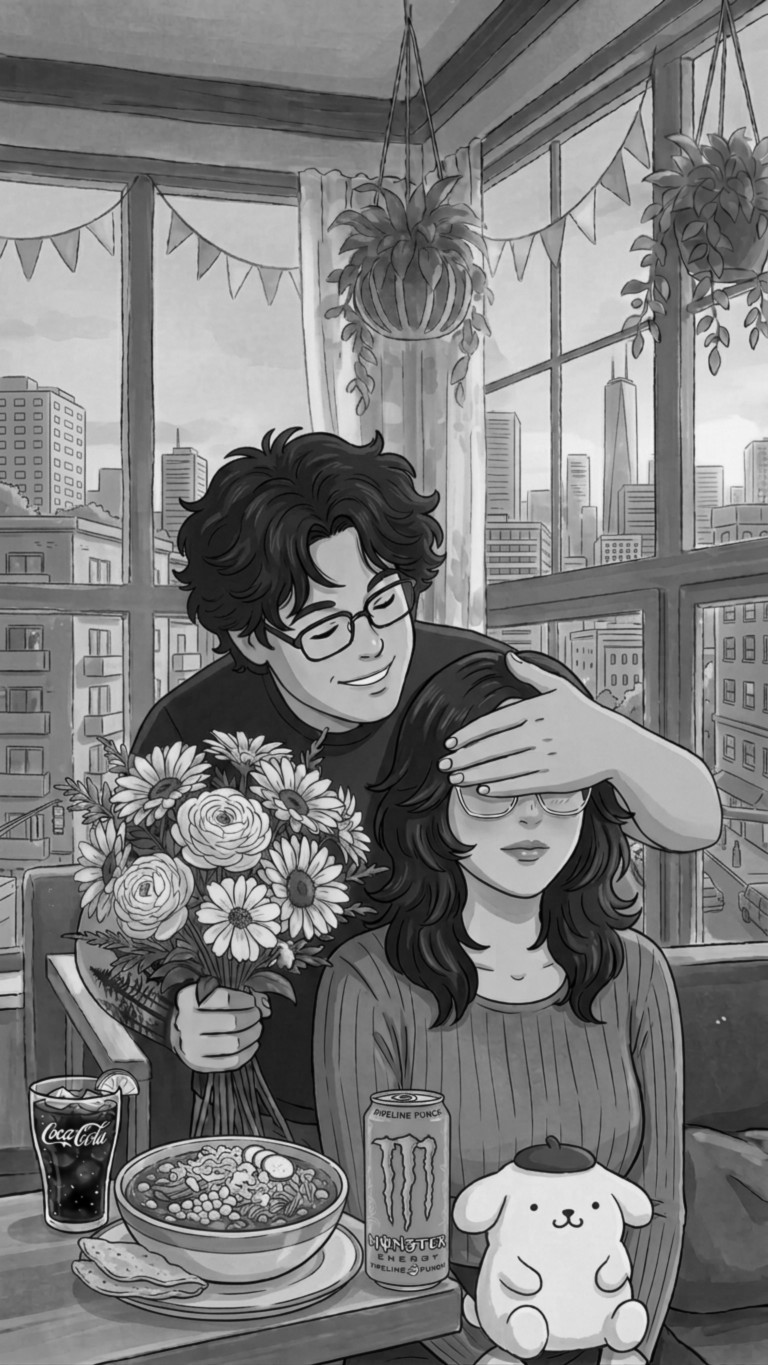
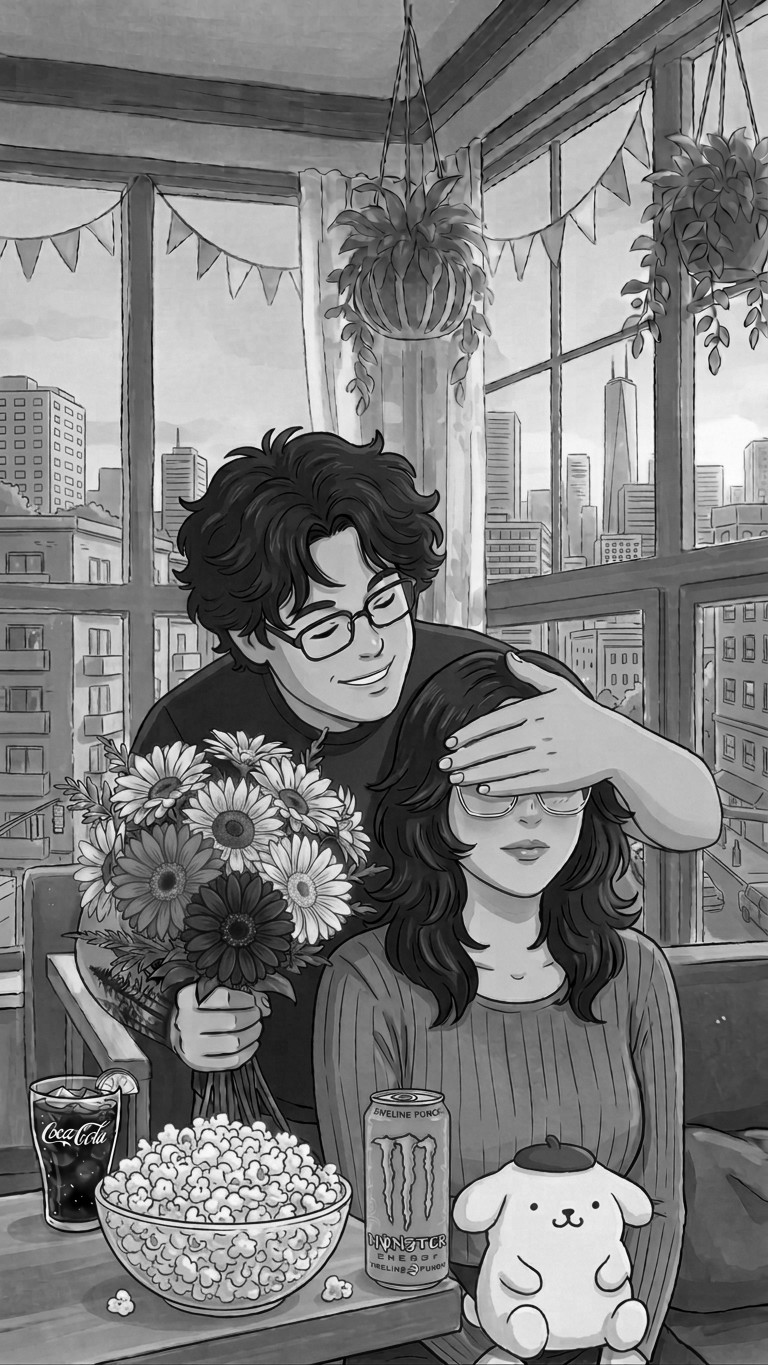
added changes

diff --git a/js/main.js b/js/main.js
@@ -6,6 +6,12 @@ const IMAGE_URL = 'img/imgOne.jpg';
 let pieces = [];
 let selectedTile = null;
 let audioStarted = false;
+const lockScreen = document.getElementById('lock-screen');
+const lockStatus = document.getElementById('lock-status');
+const lockSound = document.getElementById('lock-sound');
+const reels = [...document.querySelectorAll('.digit-reel')];
+const combination = [0, 0, 0];
+const unlockCode = [8, 6, 4];
 
 const board = document.getElementById('board');
 const songOne = document.getElementById('songOne');
@@ -16,8 +22,104 @@ const volumeSlider = document.getElementById('volume-slider');
 const lockedCountEl = document.getElementById('locked-count');
 const finalImage = document.getElementById('final-image');
 
+document.body.classList.add('is-locked');
+
 let activeSong = songOne;
 let isSeeking = false;
+
+function playLockMoveSound() {
+    if (lockSound) {
+        lockSound.currentTime = 0;
+        lockSound.play().catch(() => playFallbackLockSound());
+        return;
+    }
+    playFallbackLockSound();
+}
+
+function playFallbackLockSound() {
+    try {
+        const AudioContext = window.AudioContext || window.webkitAudioContext;
+        if (!AudioContext) return;
+        const ctx = new AudioContext();
+        const oscillator = ctx.createOscillator();
+        const gain = ctx.createGain();
+        oscillator.type = 'square';
+        oscillator.frequency.setValueAtTime(120, ctx.currentTime);
+        oscillator.frequency.exponentialRampToValueAtTime(70, ctx.currentTime + 0.07);
+        gain.gain.setValueAtTime(0.08, ctx.currentTime);
+        gain.gain.exponentialRampToValueAtTime(0.001, ctx.currentTime + 0.07);
+        oscillator.connect(gain);
+        gain.connect(ctx.destination);
+        oscillator.start();
+        oscillator.stop(ctx.currentTime + 0.07);
+    } catch (e) {}
+}
+
+function renderReel(reel, value) {
+    reel.innerHTML = '';
+    const strip = document.createElement('div');
+    strip.className = 'digit-strip';
+    [-1, 0, 1].forEach(offset => {
+        const digit = document.createElement('span');
+        digit.className = `digit${offset === 0 ? ' current' : ''}`;
+        digit.textContent = (value + offset + 10) % 10;
+        strip.appendChild(digit);
+    });
+    reel.appendChild(strip);
+}
+
+function moveReel(index, direction) {
+    combination[index] = (combination[index] + direction + 10) % 10;
+    renderReel(reels[index], combination[index]);
+    playLockMoveSound();
+    if (combination.every((digit, digitIndex) => digit === unlockCode[digitIndex])) {
+        unlockGame();
+        return;
+    }
+    lockStatus.textContent = 'Alinea la combinación';
+    lockStatus.classList.remove('error');
+}
+
+function setupLockReel(reel, index) {
+    let startY = null;
+    reel.addEventListener('pointerdown', event => {
+        startY = event.clientY;
+        reel.setPointerCapture(event.pointerId);
+    });
+    reel.addEventListener('pointerup', event => {
+        if (startY === null) return;
+        const distance = event.clientY - startY;
+        if (Math.abs(distance) > 10) moveReel(index, distance < 0 ? 1 : -1);
+        startY = null;
+    });
+    reel.addEventListener('keydown', event => {
+        if (event.key === 'ArrowUp' || event.key === 'ArrowDown') {
+            event.preventDefault();
+            moveReel(index, event.key === 'ArrowUp' ? 1 : -1);
+        }
+    });
+    renderReel(reel, combination[index]);
+}
+
+function unlockGame() {
+    if (combination.every((digit, index) => digit === unlockCode[index])) {
+        lockStatus.textContent = 'Cerradura abierta';
+        lockScreen.classList.add('opened');
+        window.setTimeout(() => {
+            lockScreen.classList.add('unlocked');
+            document.body.classList.remove('is-locked');
+        }, 650);
+        window.setTimeout(() => lockScreen.remove(), 1500);
+        return;
+    }
+    lockStatus.textContent = 'La combinación no coincide';
+    lockStatus.classList.add('error');
+    lockScreen.classList.remove('shake');
+    void lockScreen.offsetWidth;
+    lockScreen.classList.add('shake');
+}
+
+reels.forEach(setupLockReel);
 
 // Web Audio API para sonido de encaje mágico sintetizado
 function playSnapSound() {

diff --git a/css/styles.css b/css/styles.css
@@ -20,6 +20,50 @@ html, body {
     transition: background-color 1s ease;
 }
 
+body.is-locked { overflow: hidden; }
+
+/* CERRADURA DE ACCESO */
+#lock-screen {
+    position: fixed;
+    inset: 0;
+    z-index: 2000;
+    display: grid;
+    place-items: center;
+    padding: 24px;
+    color: #f6e6c8;
+    background: radial-gradient(circle at 50% 45%, #38261e 0%, #171314 48%, #09090a 100%);
+    transition: opacity 0.8s ease, visibility 0.8s ease;
+}
+
+#lock-screen.unlocked { opacity: 0; visibility: hidden; pointer-events: none; }
+#lock-screen.opened { pointer-events: none; }
+
+.lock-panel { position: relative; width: min(100%, 360px); padding-top: 32px; filter: drop-shadow(0 18px 30px rgba(0, 0, 0, 0.55)); }
+.lock-shackle { width: 116px; height: 88px; margin: 0 auto -28px; border: 12px solid #876d4c; border-bottom: 0; border-radius: 70px 70px 0 0; box-shadow: inset 0 2px 2px rgba(255, 232, 183, 0.3), 0 0 0 2px #2a211d; }
+.lock-body { position: relative; padding: 30px 22px 24px; border: 1px solid #9b784b; border-radius: 12px; background: linear-gradient(145deg, #5d402e, #2b201d 58%, #171516); box-shadow: inset 0 1px rgba(255, 233, 187, 0.22), inset 0 -12px 22px rgba(0, 0, 0, 0.3); }
+#lock-screen.opened .lock-shackle { animation: openShackle 0.75s cubic-bezier(0.2, 0.8, 0.2, 1) forwards; transform-origin: 50% 100%; }
+.opened .lock-body { animation: openBody 0.75s ease forwards; }
+.lock-mark { display: block; color: #e9b75b; font-size: 1.3rem; margin-bottom: 8px; }
+#lock-title { color: #f6e6c8; font-family: Georgia, 'Times New Roman', serif; font-size: 1.55rem; letter-spacing: 0.06em; margin: 0; }
+.lock-subtitle { color: #c9aa7b; font-size: 0.78rem; letter-spacing: 0.18em; margin: 9px 0 20px; text-transform: uppercase; }
+#combination-lock { display: flex; justify-content: center; gap: 8px; padding: 10px 8px; border: 1px solid rgba(232, 188, 111, 0.45); border-radius: 8px; background: #151416; box-shadow: inset 0 0 18px rgba(0, 0, 0, 0.75); }
+.digit-reel { position: relative; width: 76px; height: 116px; overflow: hidden; cursor: ns-resize; touch-action: pan-y; border-right: 1px solid rgba(232, 188, 111, 0.25); outline: none; user-select: none; }
+.digit-reel:last-child { border-right: 0; }
+.digit-reel::before, .digit-reel::after { position: absolute; left: 0; right: 0; z-index: 2; height: 34px; content: ''; pointer-events: none; }
+.digit-reel::before { top: 0; background: linear-gradient(#151416, transparent); }
+.digit-reel::after { bottom: 0; background: linear-gradient(transparent, #151416); }
+.digit-strip { display: flex; flex-direction: column; align-items: center; transform: translateY(-34px); transition: transform 0.16s ease-out; }
+.digit { display: grid; place-items: center; width: 100%; height: 34px; color: #735f4a; font-family: Georgia, 'Times New Roman', serif; font-size: 1.2rem; }
+.digit.current { color: #f5d18d; font-size: 2rem; text-shadow: 0 0 12px rgba(238, 182, 79, 0.4); }
+#lock-status { min-height: 18px; color: #c9aa7b; font-size: 0.78rem; margin: 15px 0 12px; }
+#lock-status.error { color: #d98d71; }
+#unlock-button { width: 100%; padding: 11px 16px; border: 1px solid #c99851; border-radius: 4px; color: #2a1d16; background: linear-gradient(#f2ca80, #b77d3b); font-weight: 700; letter-spacing: 0.08em; cursor: pointer; text-transform: uppercase; }
+#unlock-button:active { transform: translateY(1px); }
+#lock-screen.shake .lock-panel { animation: lockShake 0.35s ease; }
+@keyframes lockShake { 25% { transform: translateX(-8px); } 75% { transform: translateX(8px); } }
+@keyframes openShackle { 0% { transform: rotate(0) translateY(0); } 45% { transform: rotate(-18deg) translate(-12px, -10px); } 100% { transform: rotate(-32deg) translate(-22px, -18px); opacity: 0.2; } }
+@keyframes openBody { 0% { transform: scale(1); filter: brightness(1); } 45% { transform: scale(1.03); filter: brightness(1.35); } 100% { transform: scale(0.96); filter: brightness(1.7); opacity: 0.35; } }
+
 /* Modo Noche Estrellada para la victoria */
 body.win-mode {
     background: radial-gradient(ellipse at bottom, #1b2735 0%, #090a0f 100%);

diff --git a/index.html b/index.html
@@ -8,9 +8,28 @@
   <link rel="stylesheet" href="css/styles.css">
 </head>
 <body>
+  <!-- Cerradura inicial -->
+  <div id="lock-screen" role="dialog" aria-modal="true" aria-labelledby="lock-title">
+    <div class="lock-panel">
+      <div class="lock-shackle" aria-hidden="true"></div>
+      <div class="lock-body">
+        <span class="lock-mark" aria-hidden="true">✦</span>
+        <h1 id="lock-title">Contraseña</h1>
+        <p class="lock-subtitle">- por orden de nacimiento -</p>
+        <div id="combination-lock" aria-label="Combinación de tres dígitos">
+          <div class="digit-reel" data-index="0" tabindex="0" aria-label="Primer dígito"></div>
+          <div class="digit-reel" data-index="1" tabindex="0" aria-label="Segundo dígito"></div>
+          <div class="digit-reel" data-index="2" tabindex="0" aria-label="Tercer dígito"></div>
+        </div>
+        <p id="lock-status" aria-live="polite">Desliza cada rueda</p>
+      </div>
+    </div>
+  </div>
+
   <!-- Elementos de Audio (songTwo ya no lleva loop obligatorio para detectar su final) -->
   <audio id="songOne" src="sound/songOne.mp3" loop preload="auto"></audio>
   <audio id="songTwo" src="sound/songTwo.mp3" preload="auto"></audio>
+  <audio id="lock-sound" src="sound/sound.mp3" preload="auto"></audio>
 
   <!-- Overlay de Transición: Flor Blanca -->
   <div id="flower-overlay">
